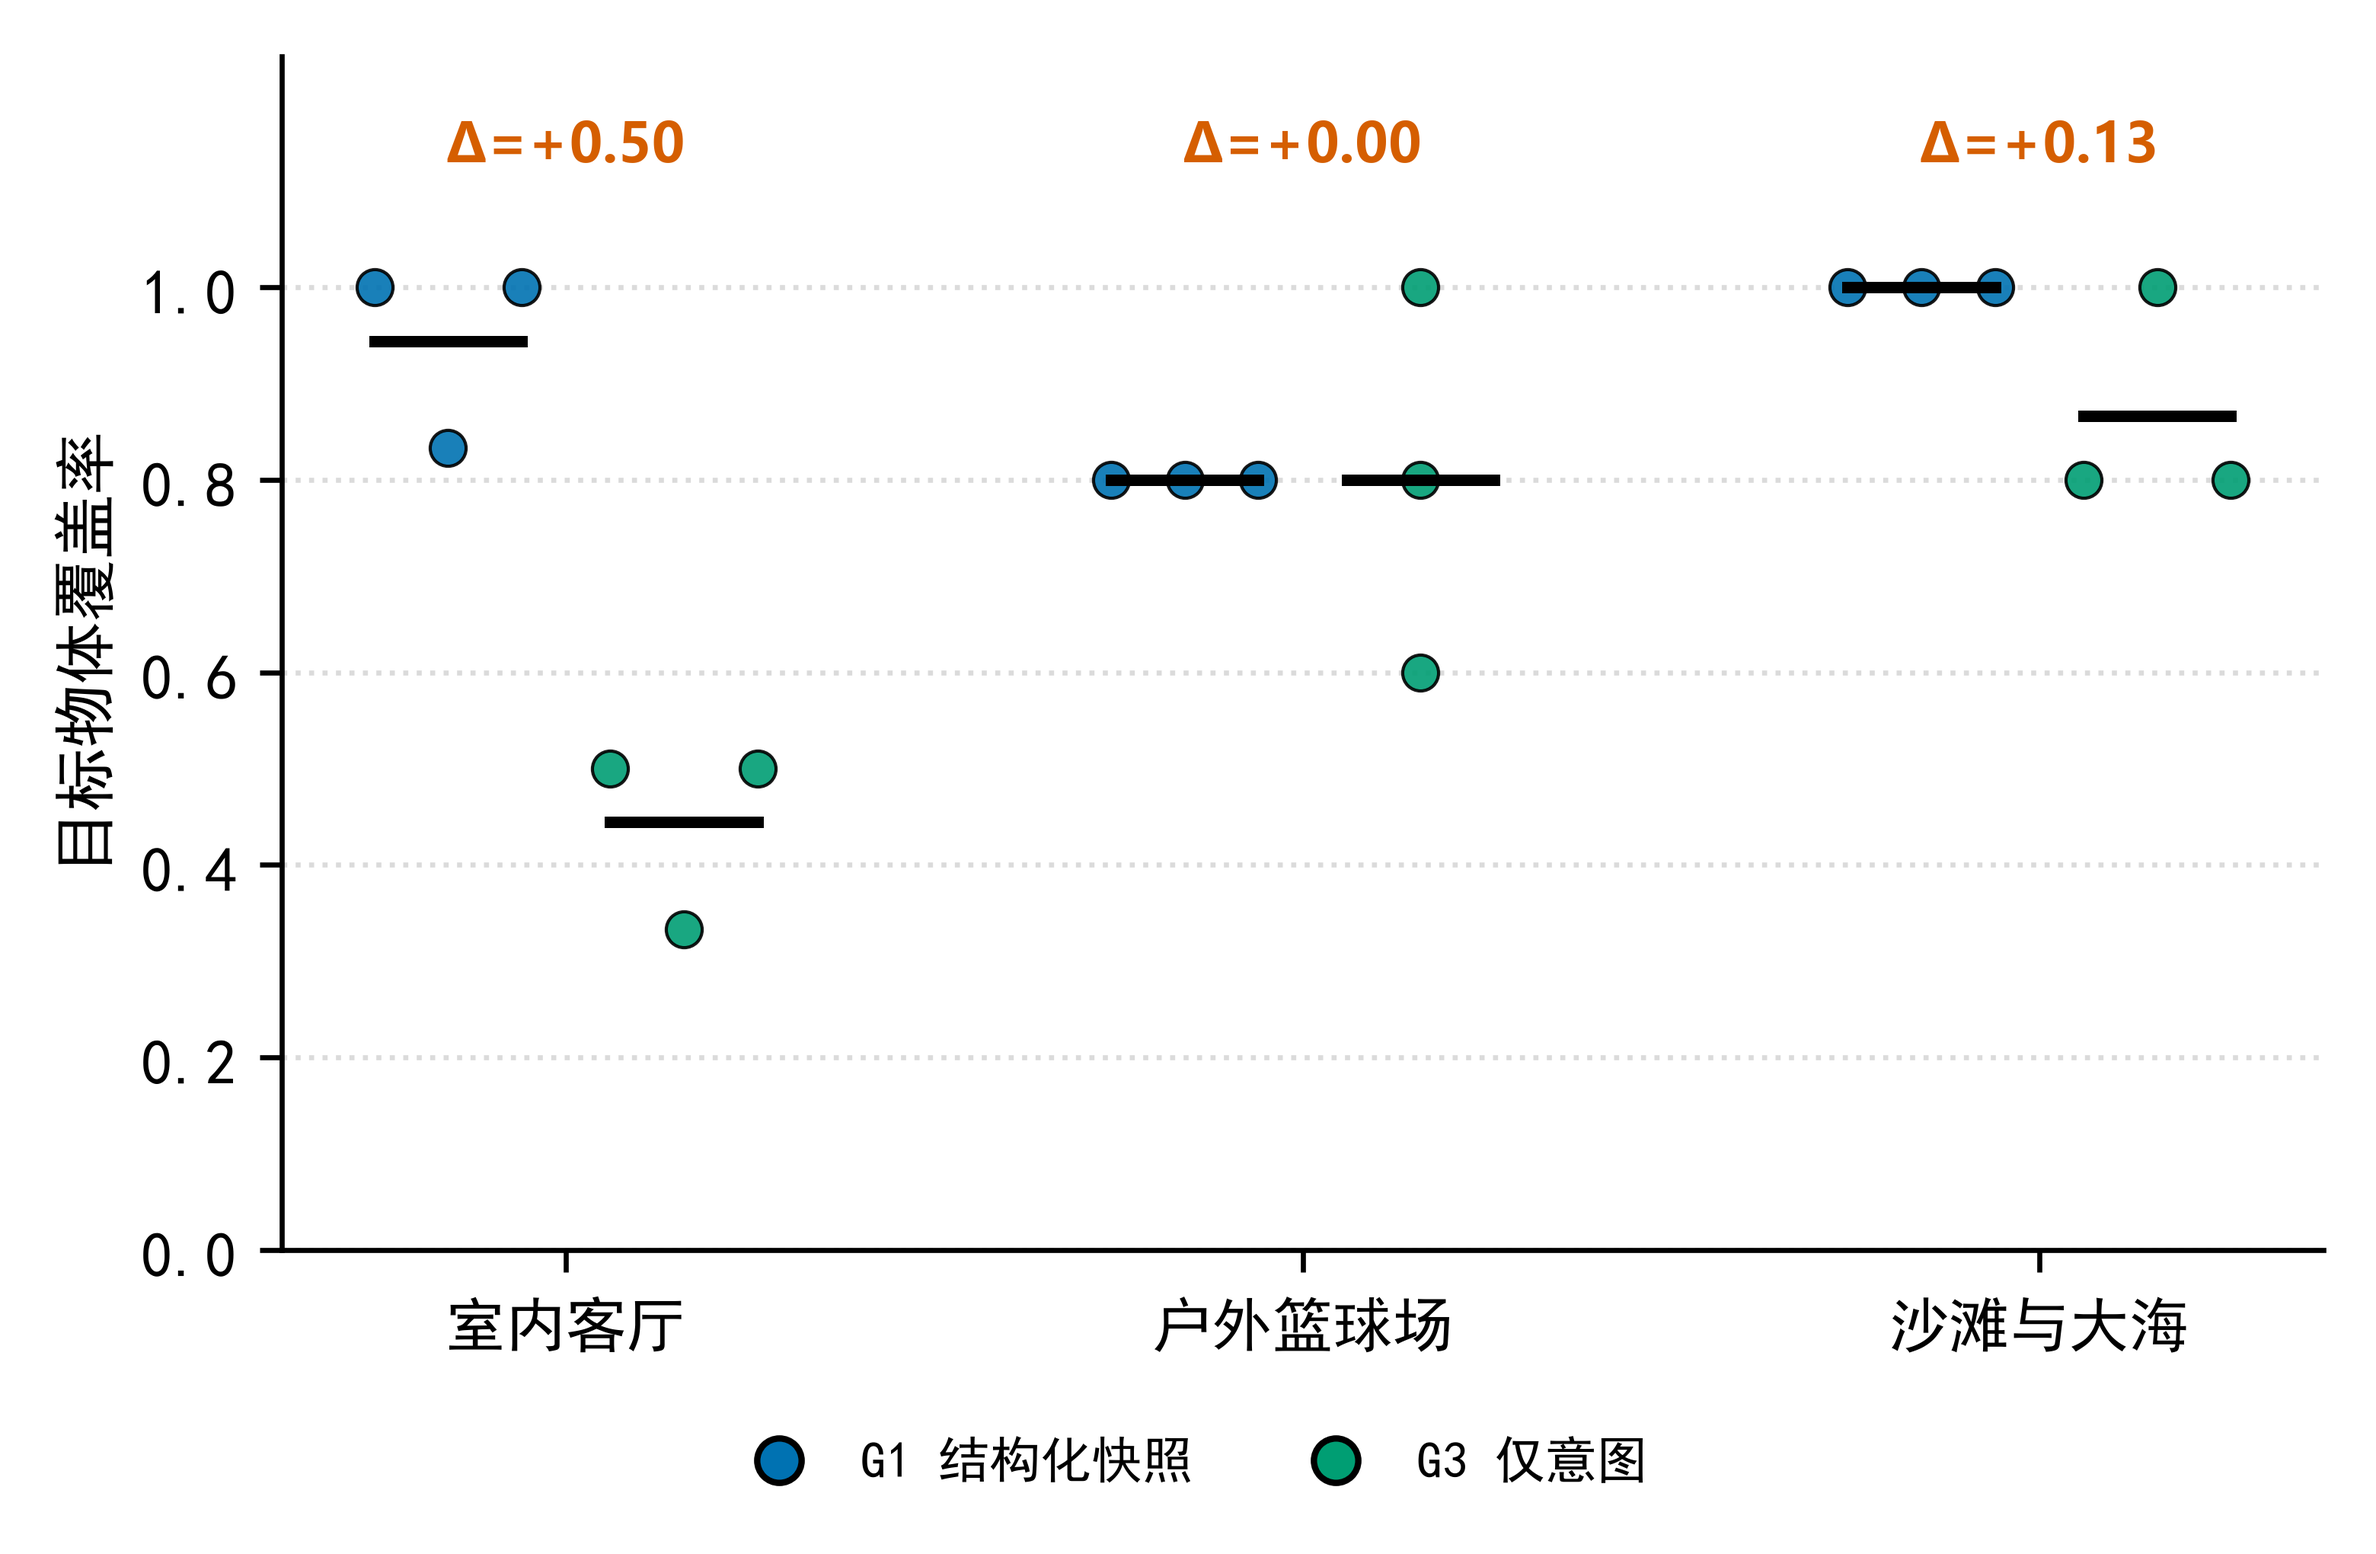
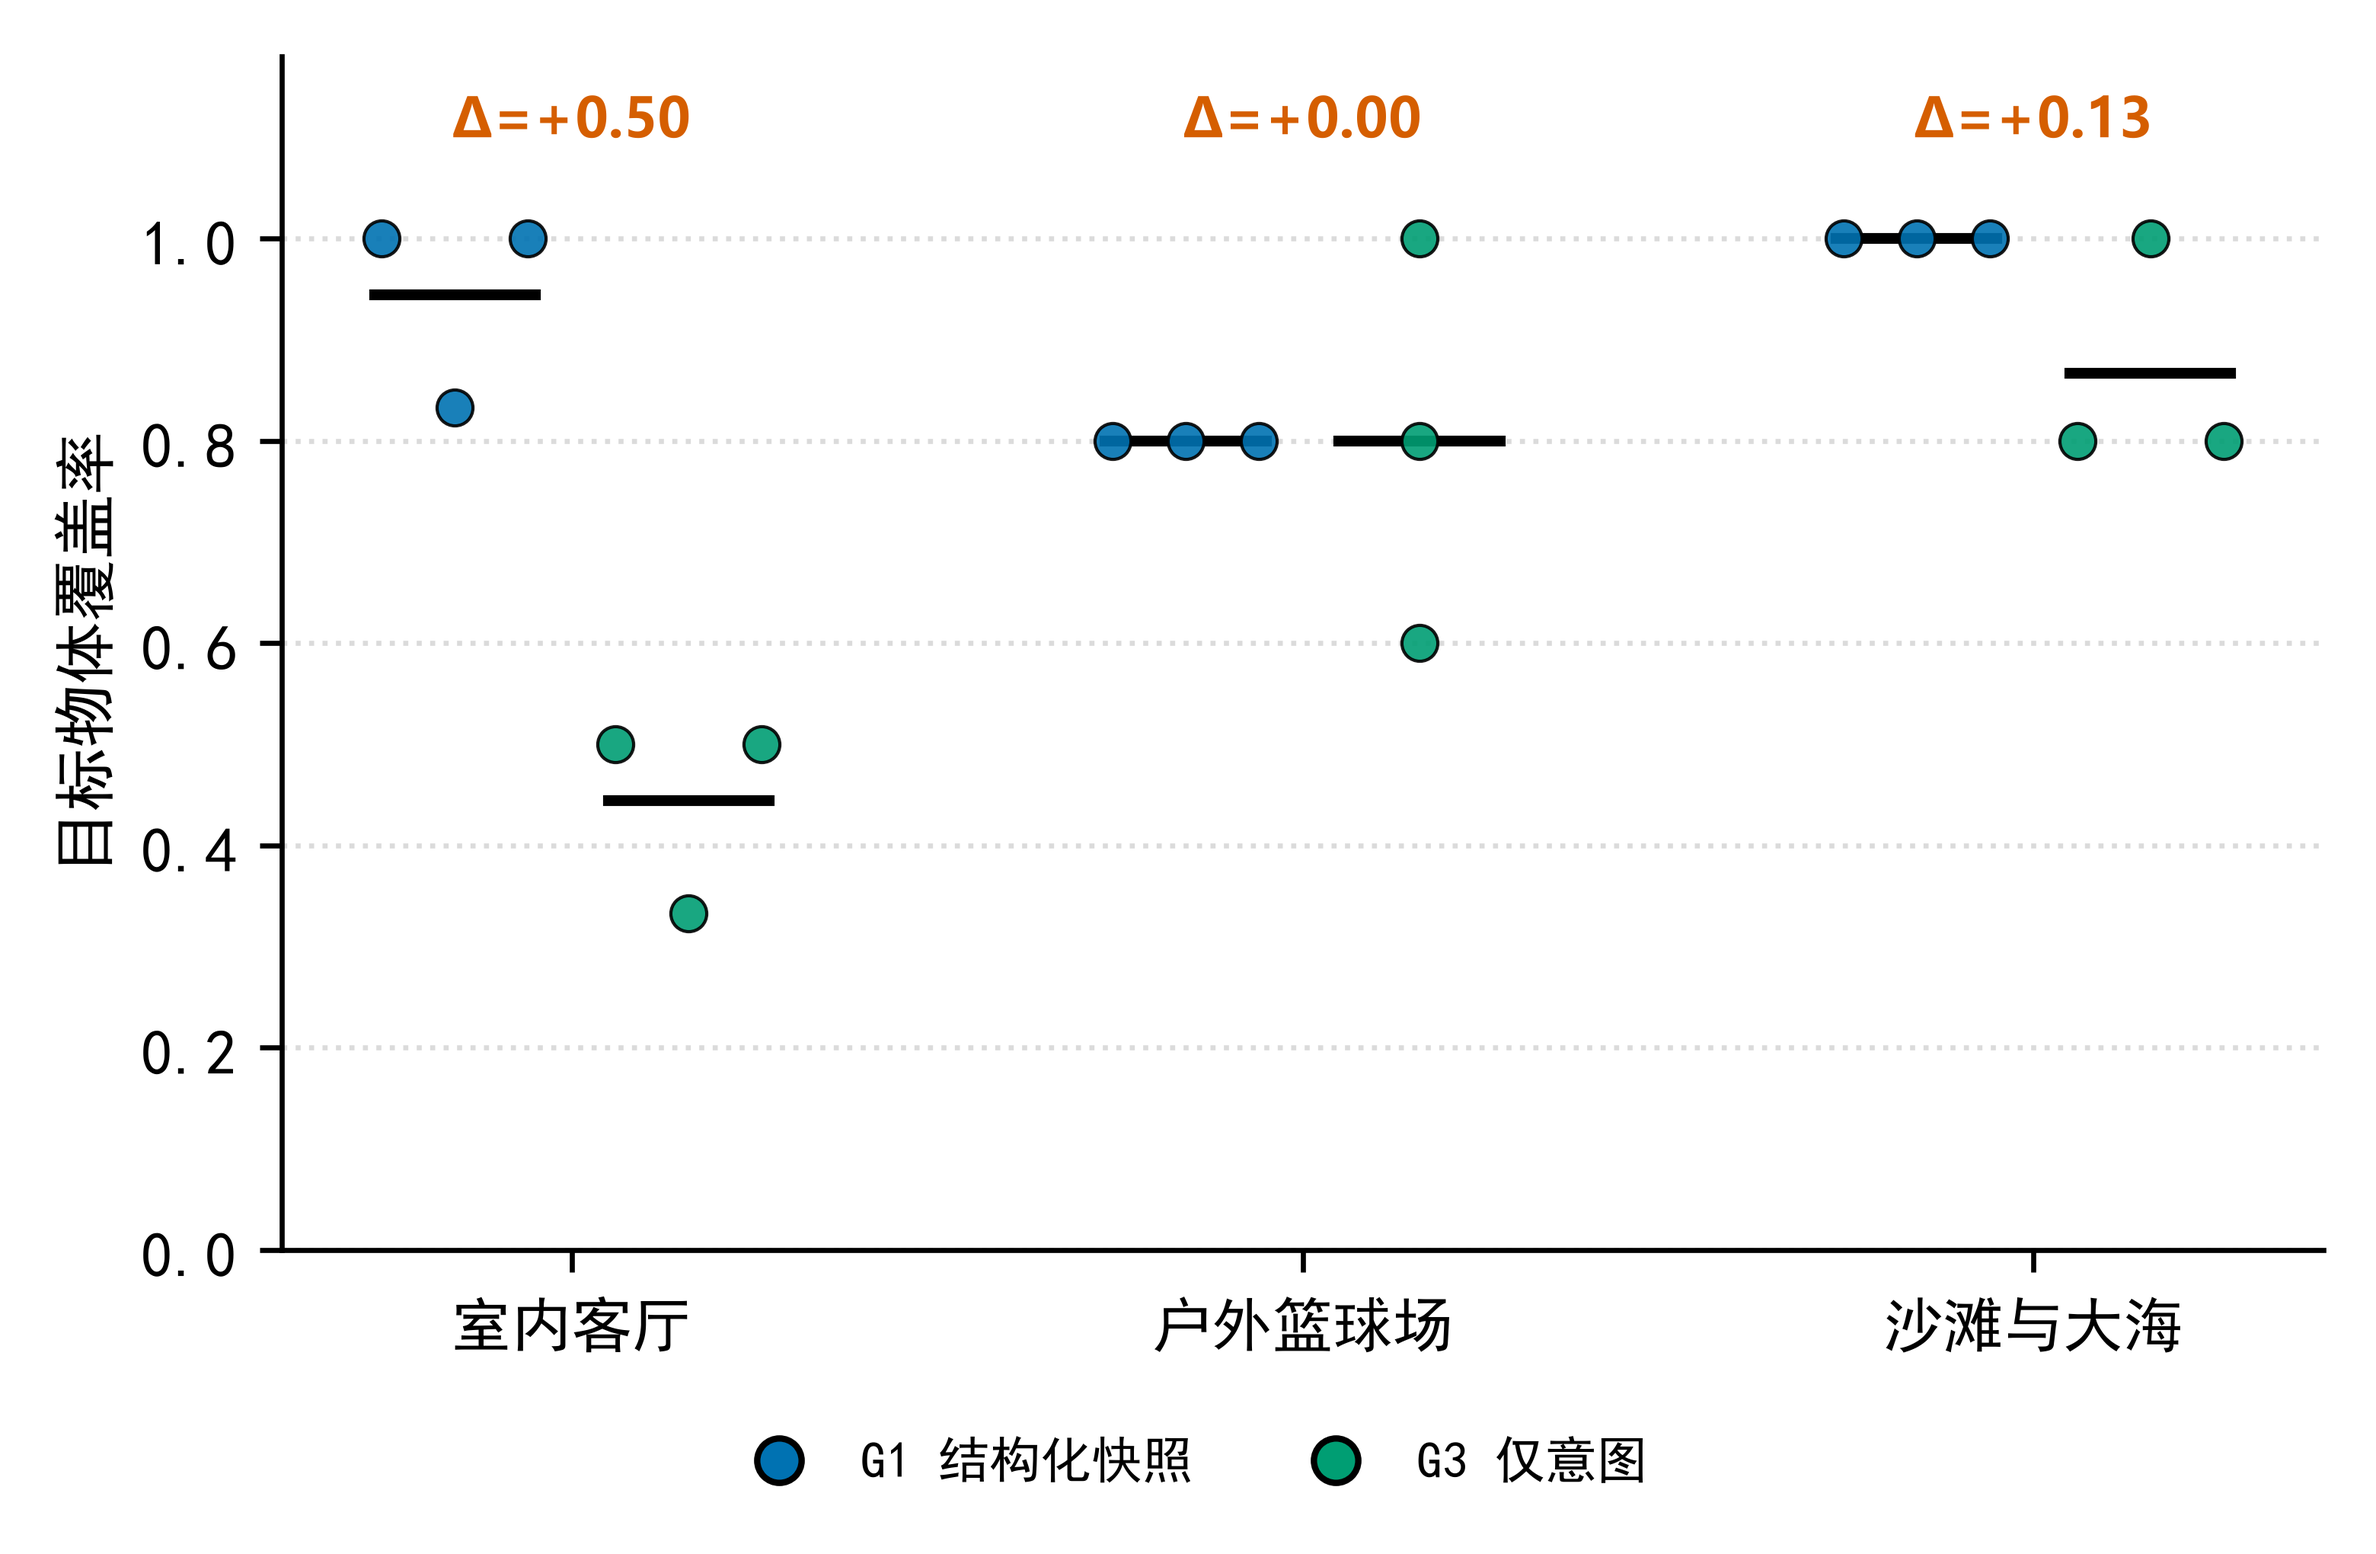
fix(fig5): 顶部空白19%->15%(与图3一致) + 均值线置于数据点下层避免遮盖

diff --git a/scripts/make_fig345.py b/scripts/make_fig345.py
@@ -193,12 +193,12 @@ for si, sc in enumerate(scenes):
         ax.scatter(x, v, s=32, color=c, alpha=0.9, edgecolor="black",
                    linewidth=0.5, zorder=3)
         m = st.mean(v)
-        ax.plot([si + off - 0.10, si + off + 0.10], [m, m], color="black", lw=1.8, zorder=4)
+        ax.plot([si + off - 0.11, si + off + 0.11], [m, m], color="black", lw=1.7, zorder=2)
     d = st.mean(vals_scene(sc, "B2", "M2_recall")) - st.mean(vals_scene(sc, "B2A2", "M2_recall"))
-    ax.text(si, 1.13, f"Δ={d:+.2f}", ha="center", fontsize=8.5,
+    ax.text(si, 1.10, f"Δ={d:+.2f}", ha="center", fontsize=8.5,
             color=OI["vermillion"], fontweight="bold", fontfamily="Microsoft YaHei")
 ax.set_xticks(range(3)); ax.set_xticklabels(snames, fontsize=9.5)
-ax.set_ylabel("目标物体覆盖率", fontsize=10); ax.set_ylim(0, 1.24)
+ax.set_ylabel("目标物体覆盖率", fontsize=10); ax.set_ylim(0, 1.18)
 ax.set_yticks([0, 0.2, 0.4, 0.6, 0.8, 1.0])   # 显式刻度，避免自动生成越界刻度(1.4)溢出画布
 ax.grid(axis="y", ls=":", alpha=0.45, zorder=0); ax.set_axisbelow(True)
 for s in ["top", "right"]:
